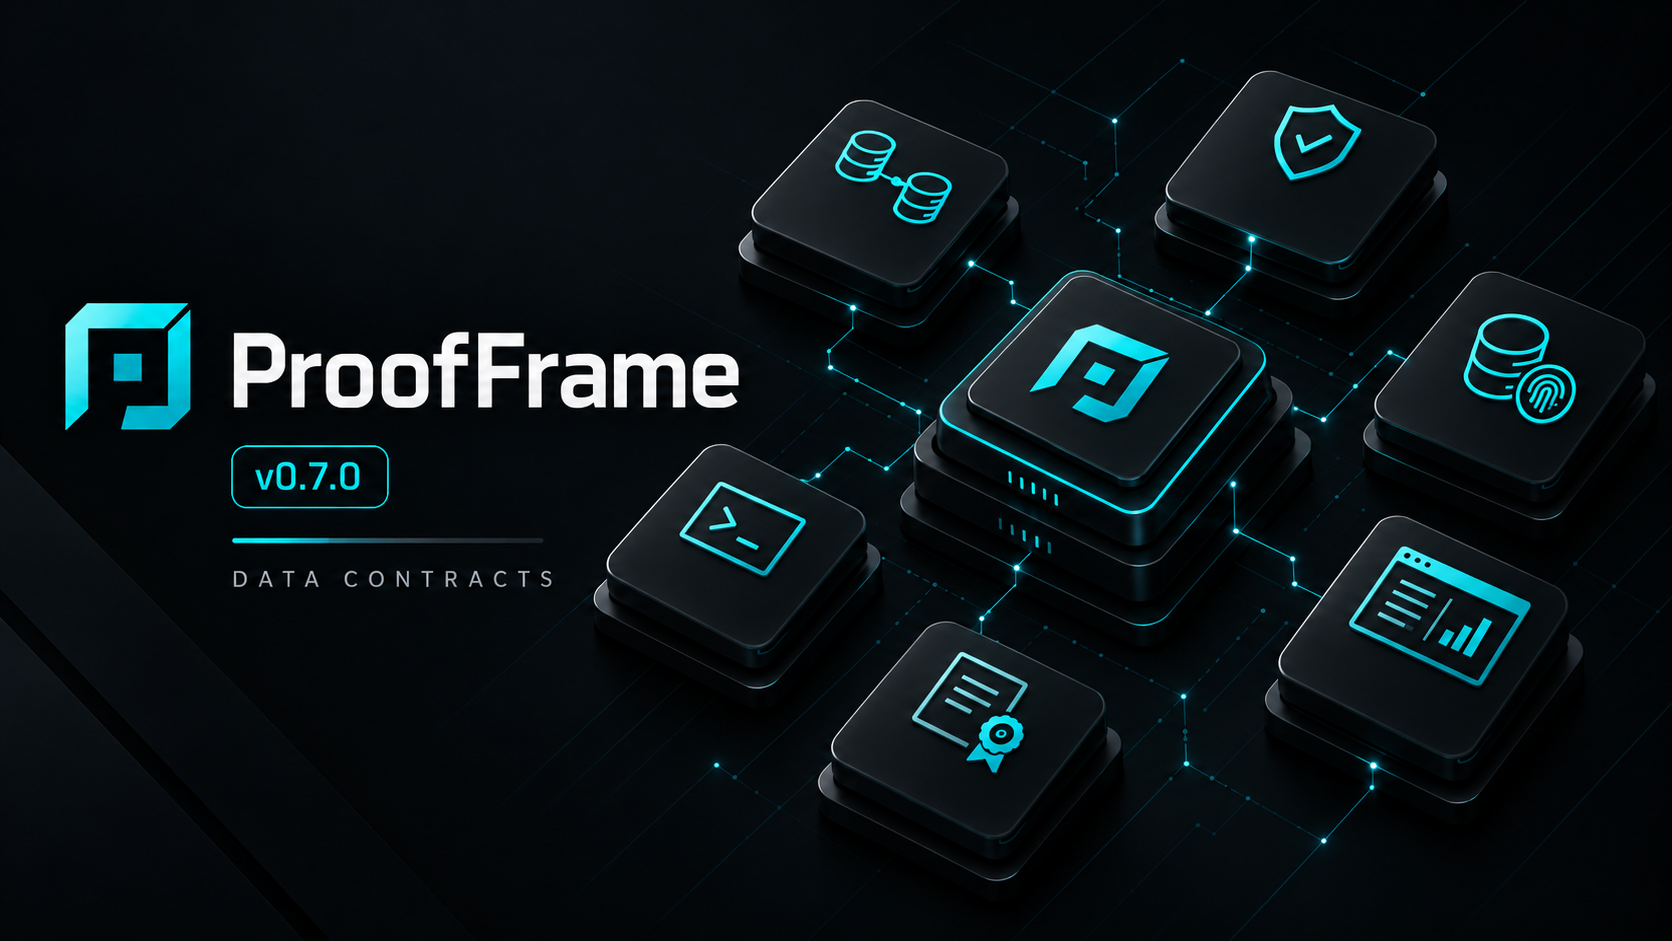
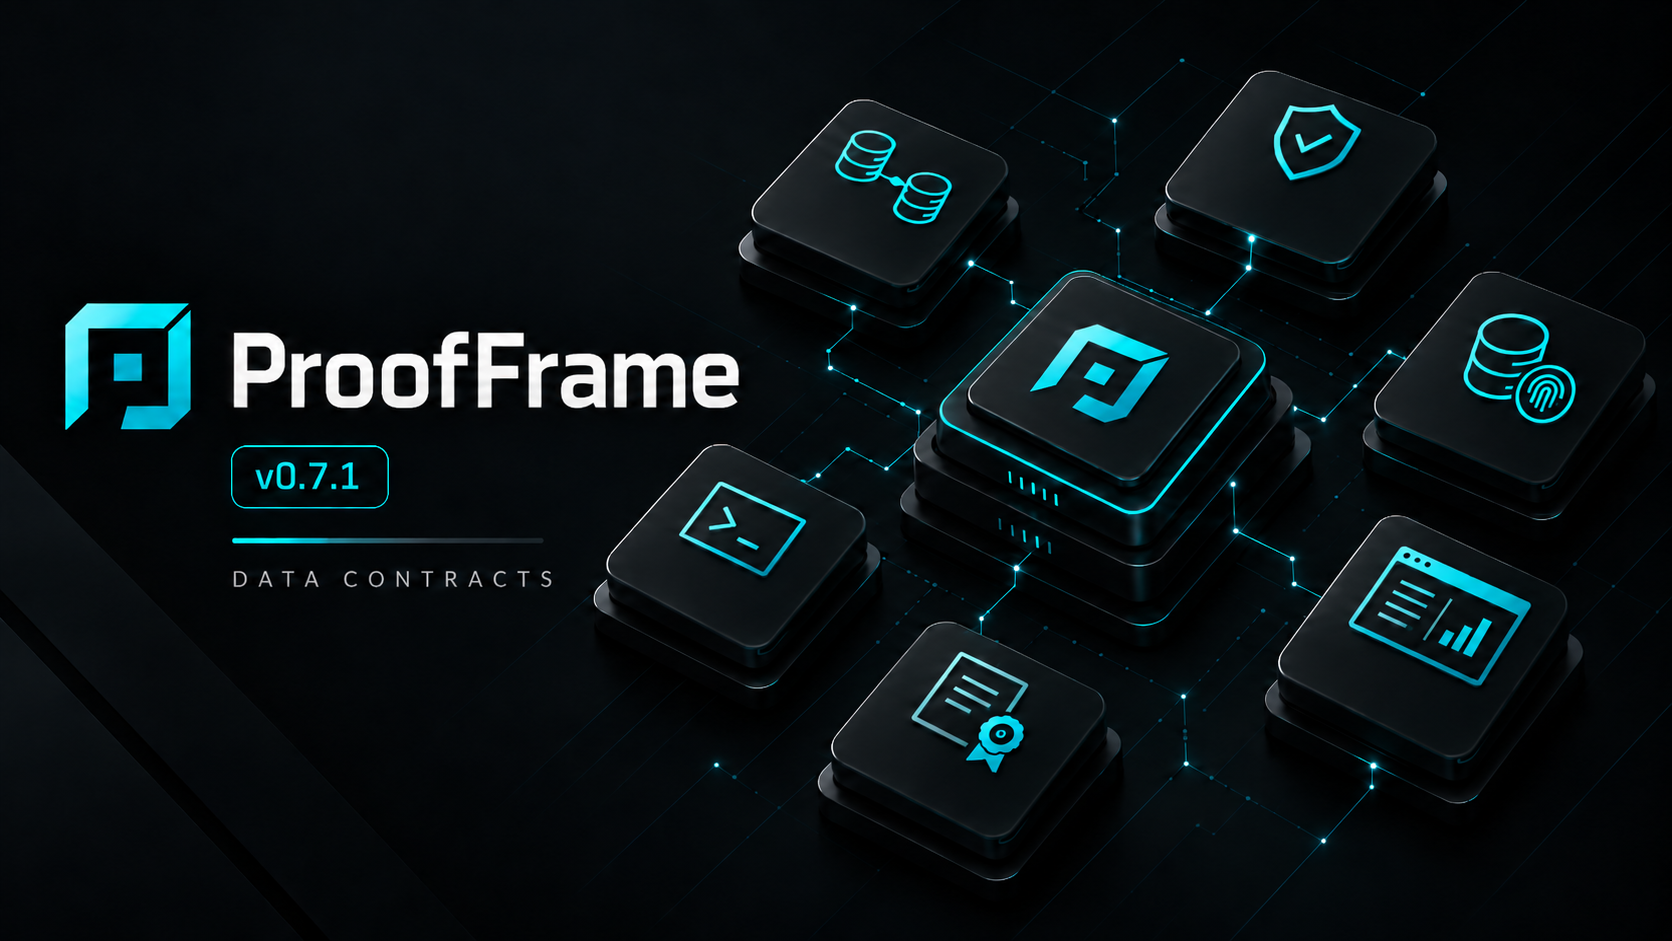
Document 0.7.1, point both READMEs at the browser demo, and split the renderer
The 0.7.1 banner replaces the 0.7.0 one, and both READMEs now say what changed:
the review is rendered by the engine, so a Rust caller gets the report the CLI
writes instead of nothing at all. The stale "0.6.0" compatibility line and the
0.7.0 install pins are corrected, and the crate README's 0.7.0 section no longer
carries a 0.7.1 change.

Both READMEs also link the in-browser linter. It is the demo that answers "what
does this actually do" without an install: the engine compiled to WebAssembly,
reading the visitor's own CSV, refusing to run a draft contract, and rendering
this same review. The two rules that need a filesystem to spill to are named
there rather than left to be discovered.

`review_html` was 123 lines and `review_markdown` 75, which is the shape static
analysis flags and, more to the point, the shape that hides a mistake. They are
split along the seams the document already had: the action block, the metrics,
the identity table, the findings list, the idle-column list.

That split caught something worth keeping in mind: rustfmt rewrote a line
continuation inside the CSP meta tag into literal spaces, silently changing the
bytes of every review. The parity fixtures failed, which is exactly what they are
for. The string is now written on one line so no formatter can edit its content.

diff --git a/src/review.rs b/src/review.rs
@@ -457,49 +457,37 @@ fn contract_section(contract: &Value, out: &mut String) {
     out.push_str("</section>");
 }
 
-/// The offline HTML review for one validation and fingerprint scan.
-pub fn review_html(
-    report: &Value,
-    evidence: &Value,
-    contract: &Value,
-    label: &str,
-    column_names: &[String],
-) -> Result<String, ProofFrameError> {
+/// Everything above the metrics: the document head, the verdict badge, and the
+/// one instruction the reader is meant to act on.
+fn action_section(report: &Value, label: &str, out: &mut String) -> Result<(), ProofFrameError> {
     let (title, instruction) = action(report)?;
     let is_valid = valid(report)?;
-    let found = findings(report)?;
-    let rows = report.get("rows").ok_or_else(|| missing("rows"))?;
-    let violations = report
-        .get("violation_count")
-        .ok_or_else(|| missing("violation_count"))?;
 
-    let mut out = String::new();
     out.push_str("<!doctype html><html lang=\"en\"><head><meta charset=\"utf-8\">");
     out.push_str("<meta name=\"viewport\" content=\"width=device-width,initial-scale=1\">");
     out.push_str(
-        "<meta http-equiv=\"Content-Security-Policy\" content=\"default-src &#39;none&#39;; \
-         style-src &#39;unsafe-inline&#39;; base-uri &#39;none&#39;; form-action &#39;none&#39;\">",
+        "<meta http-equiv=\"Content-Security-Policy\" content=\"default-src &#39;none&#39;; style-src &#39;unsafe-inline&#39;; base-uri &#39;none&#39;; form-action &#39;none&#39;\">",
     );
     out.push_str(&format!(
         "<title>ProofFrame review · {}</title><style>{CSS}</style></head><body>",
         escape_text(label)
     ));
     out.push_str("<a class=\"skip\" href=\"#main\">Skip to review</a><main id=\"main\">");
-    let badge = if is_valid {
-        "Contract passed"
-    } else {
-        "Contract violations"
-    };
     out.push_str("<header><div class=\"brand\">ProofFrame / Data review</div><span class=\"badge ");
     out.push_str(&format!(
-        "{}\">{badge}</span></header>",
-        if is_valid { "pass" } else { "" }
+        "{}\">{}</span></header>",
+        if is_valid { "pass" } else { "" },
+        if is_valid {
+            "Contract passed"
+        } else {
+            "Contract violations"
+        }
     ));
     out.push_str("<article class=\"action\"><div class=\"eyebrow\">Start here</div><h1>");
     out.push_str(&format!("{}</h1>", render_html(&title)));
     out.push_str(&format!("<p>{}</p>", render_html(&instruction)));
     out.push_str(&format!("<p class=\"muted\">{}</p>", escape_text(label)));
-    if !is_valid && found.is_empty() {
+    if !is_valid && findings(report)?.is_empty() {
         out.push_str(
             "<pre>--max-samples 20</pre><p class=\"muted\">Finding details are off by default. ",
         );
@@ -509,44 +497,49 @@ pub fn review_html(
     out.push_str(
         "<a href=\"evidence.json\">Evidence JSON</a><a href=\"summary.md\">CI summary</a></nav></article>",
     );
+    Ok(())
+}
+
+/// The three headline numbers, stated as counts rather than as a verdict.
+fn metrics_section(report: &Value, out: &mut String) -> Result<(), ProofFrameError> {
+    let rows = report.get("rows").ok_or_else(|| missing("rows"))?;
+    let violations = report
+        .get("violation_count")
+        .ok_or_else(|| missing("violation_count"))?;
+    let sampled = findings(report)?.len().to_string();
+
     out.push_str("<div class=\"metrics\">");
-    let metrics = [
+    for (value, name) in [
         (
             escape_text(&format!("{} violations", scalar(violations))),
             "Exact total",
         ),
         (escape(rows), "Rows scanned"),
-        (escape_text(&found.len().to_string()), "Sampled findings"),
-    ];
-    for (value, name) in metrics {
+        (escape_text(&sampled), "Sampled findings"),
+    ] {
         out.push_str(&format!(
             "<div class=\"metric\"><span class=\"value\">{value}</span><span class=\"label\">{name}</span></div>"
         ));
     }
     out.push_str("</div>");
-    findings_section(report, &mut out)?;
-    idle_section(report, column_names, &mut out);
-    contract_section(contract, &mut out);
+    Ok(())
+}
 
-    out.push_str("<section><h2>Data identity and execution</h2><dl>");
-    let mut pairs: Vec<(String, String)> = vec![
+/// What was scanned and under which limits, so the result can be reproduced.
+fn identity_section(
+    report: &Value,
+    evidence: &Value,
+    out: &mut String,
+) -> Result<(), ProofFrameError> {
+    let digest = |key: &str| report.get(key).map_or_else(String::new, scalar);
+    let mut pairs = vec![
         ("Dataset fingerprint".to_owned(), fingerprint(evidence)?),
         (
             "Contract digest".to_owned(),
-            report
-                .get("contract_source_digest")
-                .map_or_else(String::new, scalar),
+            digest("contract_source_digest"),
         ),
-        (
-            "Schema digest".to_owned(),
-            report.get("schema_digest").map_or_else(String::new, scalar),
-        ),
-        (
-            "Plan digest".to_owned(),
-            report
-                .get("compiled_plan_digest")
-                .map_or_else(String::new, scalar),
-        ),
+        ("Schema digest".to_owned(), digest("schema_digest")),
+        ("Plan digest".to_owned(), digest("compiled_plan_digest")),
         (
             "Engine version".to_owned(),
             scalar(engine_version(evidence)?),
@@ -556,10 +549,14 @@ pub fn review_html(
         let Some(entries) = report.get(group).and_then(Value::as_object) else {
             continue;
         };
-        for (key, value) in entries {
-            pairs.push((key.replace('_', " "), scalar(value)));
-        }
+        pairs.extend(
+            entries
+                .iter()
+                .map(|(key, value)| (key.replace('_', " "), scalar(value))),
+        );
     }
+
+    out.push_str("<section><h2>Data identity and execution</h2><dl>");
     for (key, value) in pairs {
         out.push_str(&format!(
             "<dt>{}</dt><dd><code>{}</code></dd>",
@@ -570,6 +567,24 @@ pub fn review_html(
     out.push_str(
         "</dl><p class=\"muted\">Memory counters describe the engine, not total process memory.</p></section>",
     );
+    Ok(())
+}
+
+/// The offline HTML review for one validation and fingerprint scan.
+pub fn review_html(
+    report: &Value,
+    evidence: &Value,
+    contract: &Value,
+    label: &str,
+    column_names: &[String],
+) -> Result<String, ProofFrameError> {
+    let mut out = String::new();
+    action_section(report, label, &mut out)?;
+    metrics_section(report, &mut out)?;
+    findings_section(report, &mut out)?;
+    idle_section(report, column_names, &mut out);
+    contract_section(contract, &mut out);
+    identity_section(report, evidence, &mut out)?;
     out.push_str(
         "<footer>Generated from one validation and fingerprint scan. No external assets or telemetry.<br>",
     );
@@ -580,6 +595,41 @@ pub fn review_html(
         "Review contract literals, column names and enabled samples before sharing.</footer></main></body></html>",
     );
     Ok(out)
+}
+
+/// One bullet per sampled finding, with every value from the data escaped.
+fn markdown_findings(found: &[Value], out: &mut String) -> Result<(), ProofFrameError> {
+    for finding in found {
+        let column = markdown_escape_str(&get_or(finding, "column", "Dataset"));
+        let row = markdown_escape_str(&get_or(finding, "row", "None"));
+        let rule = finding
+            .get("rule")
+            .ok_or_else(|| missing("findings[].rule"))?;
+        let message = markdown_escape_str(&get_or(finding, "message", ""));
+        out.push_str(&format!(
+            "- {column}, row {row}: {} — {message}\n",
+            markdown_escape(rule)
+        ));
+    }
+    Ok(())
+}
+
+/// Columns whose rules had nothing to check, stated rather than left as silence.
+fn markdown_idle(idle: &[String], out: &mut String) {
+    if idle.is_empty() {
+        return;
+    }
+    out.push_str(&format!(
+        "\n**{} column(s) had no value for their rules to check.** \
+         A rule that was never asked did not pass.\n\n",
+        idle.len()
+    ));
+    for name in idle {
+        out.push_str(&format!(
+            "- {}: 0 values evaluated\n",
+            markdown_escape_str(name)
+        ));
+    }
 }
 
 /// The Markdown summary written for a CI job summary or a pull request.
@@ -625,32 +675,8 @@ pub fn review_markdown(
          Violations are not a count of distinct failing rows.\n\n",
         found.len()
     ));
-    for finding in found {
-        let column = markdown_escape_str(&get_or(finding, "column", "Dataset"));
-        let row = markdown_escape_str(&get_or(finding, "row", "None"));
-        let rule = finding
-            .get("rule")
-            .ok_or_else(|| missing("findings[].rule"))?;
-        let message = markdown_escape_str(&get_or(finding, "message", ""));
-        out.push_str(&format!(
-            "- {column}, row {row}: {} — {message}\n",
-            markdown_escape(rule)
-        ));
-    }
-    let idle = unexercised(report, column_names);
-    if !idle.is_empty() {
-        out.push_str(&format!(
-            "\n**{} column(s) had no value for their rules to check.** \
-             A rule that was never asked did not pass.\n\n",
-            idle.len()
-        ));
-        for name in &idle {
-            out.push_str(&format!(
-                "- {}: 0 values evaluated\n",
-                markdown_escape_str(name)
-            ));
-        }
-    }
+    markdown_findings(found, &mut out)?;
+    markdown_idle(&unexercised(report, column_names), &mut out);
     out.push_str(&format!(
         "\nDataset fingerprint: {}\n\n",
         fingerprint(evidence)?

diff --git a/README.md b/README.md
@@ -32,6 +32,13 @@ ProofFrame keeps these answers deterministic and resource-bounded. Exact uniquen
 leakage operations have explicit memory, temporary-storage, sample, and output limits. Corrupt
 temporary data, incompatible schemas, ambiguous contracts, and exceeded limits fail closed.
 
+> **0.7.1 — One renderer, every surface**
+>
+> The review is rendered by the engine. `review_html` and `review_markdown` are part of the
+> crate, so a Rust caller gets the same offline report the CLI writes, and Python calls the
+> same code instead of its own copy. Fixtures pin the output byte for byte against the
+> renderer this replaced.
+>
 > **0.7.0 — Review and acceptance**
 >
 > Turn a validation run into an offline HTML report, CI Markdown summary, validation JSON,
@@ -42,6 +49,18 @@ temporary data, incompatible schemas, ambiguous contracts, and exceeded limits f
 > acceptance policy, the CSV reader settings and the evidence, and verifies offline.
 >
 > Contract errors now identify the offending column and explain the expected type or version.
+
+## Try it without installing anything
+
+[**Drop a CSV into the browser linter →**](https://emirhuseyin.tech/proofframe/#linter)
+
+The engine is compiled to WebAssembly and runs in the tab: it reads the file with Arrow, infers a
+draft contract, refuses to execute that draft until you have reviewed it, and renders the same HTML
+review `proofframe review` writes. Nothing is uploaded, and the page reports the engine time it
+measured on your machine.
+
+Two rules need a filesystem to spill to and are refused there rather than silently skipped:
+uniqueness and the dataset-level exact rules. Everything else is the native code below.
 
 ## Review a dataset
 
@@ -95,13 +114,13 @@ one that could not be read, and a tampered bundle that fails verification.
 Python 3.10–3.13:
 
 ```bash
-pip install proofframe==0.7.0
+pip install proofframe==0.7.1
 ```
 
 Rust 1.85 or newer:
 
 ```bash
-cargo add proofframe@0.7.0
+cargo add proofframe@0.7.1
 ```
 
 ## The 30-second demo
@@ -394,11 +413,21 @@ JSON is emitted only after a successful operation. File outputs use same-directo
 
 The default crate has no Python dependency. Rust users get the same compiled contracts, typed Arrow
 kernels, fingerprints, evidence, receipt verification, resource accounting, and spill engine used
-by the Python wheels. See the [crate guide](README-crates.md) and [API documentation](https://docs.rs/proofframe).
+by the Python wheels.
+
+Since 0.7.1 that includes the review itself. `review_html` and `review_markdown` render the report
+and the CI summary from a report, its evidence and the contract, so the document a Rust caller
+produces is the document `proofframe review` writes.
+
+```rust
+let html = proofframe::review_html(&report, &evidence, &contract, "orders.parquet", &columns)?;
+```
+
+See the [crate guide](README-crates.md) and [API documentation](https://docs.rs/proofframe).
 
 ## Compatibility and performance evidence
 
-Version 0.6.0 preserves V1 fingerprints and the established compatibility entry points. New work
+Version 0.7.1 preserves V1 fingerprints and the established compatibility entry points. New work
 should use `check`, explicit fingerprint versions, Evidence V2, and Receipt V2.
 
 Performance claims are tied to raw samples, dataset hashes, compiler and package versions, and

diff --git a/README-crates.md b/README-crates.md
@@ -105,11 +105,31 @@ larger or unknown streams. `SpillPolicy::Never` fails rather than writing exact-
 Every length and allocation boundary is validated before allocation. Reports expose peak memory,
 temporary bytes, spill bytes, and run or partition counts.
 
+## Try it without installing anything
+
+[**Drop a CSV into the browser linter →**](https://emirhuseyin.tech/proofframe/#linter)
+
+The engine is compiled to WebAssembly and runs in the tab: it reads the file with Arrow, infers a
+draft contract, refuses to execute that draft until you have reviewed it, and renders the same HTML
+review `proofframe review` writes. Nothing is uploaded, and the page reports the engine time it
+measured on your machine.
+
+Two rules need a filesystem to spill to and are refused there rather than silently skipped:
+uniqueness and the dataset-level exact rules. Everything else is the native code below.
+
 ## Evidence and trust
 
 Evidence V2 carries separate canonical contract, compiled plan, and Arrow schema digests. Receipt
 V2 uses Ed25519 signatures and should be verified with `TrustPolicy::ExpectedKey` or `TrustStore`
 when signer identity matters.
+
+## 0.7.1
+
+`review_html` and `review_markdown` render the offline HTML review and the CI Markdown summary from
+a report, its evidence and the contract. They were Python-only, so a Rust caller had no review at
+all; they are now part of this crate and the Python package calls them. Fixtures pin the output byte
+for byte against the renderer they replaced. `evidence_for_check` assembles Evidence V2 for a
+completed check, so publishing evidence does not mean copying that assembly.
 
 ## 0.7.0
 
@@ -122,10 +142,9 @@ passed because nothing was wrong from one that passed because nothing was asked.
 reports schema indices rather than names, which keeps the per-row kernels and the allocation
 contract unchanged; resolving them to names is the reader's job.
 
-`review_html` and `review_markdown` render the offline review from a report, its evidence and the
-contract, so a Rust caller produces the same documents the CLI writes. The Python package adds the
-explicit accepted/rejected/unknown file-acceptance decision on top. All of it is a surface over this
-crate's existing scan; the fingerprint and evidence protocols are unchanged.
+The Python package built on this core adds the explicit accepted/rejected/unknown file-acceptance
+decision. It is a surface over this crate's existing scan; the fingerprint and evidence protocols
+are unchanged.
 
 ## Compatibility
 
